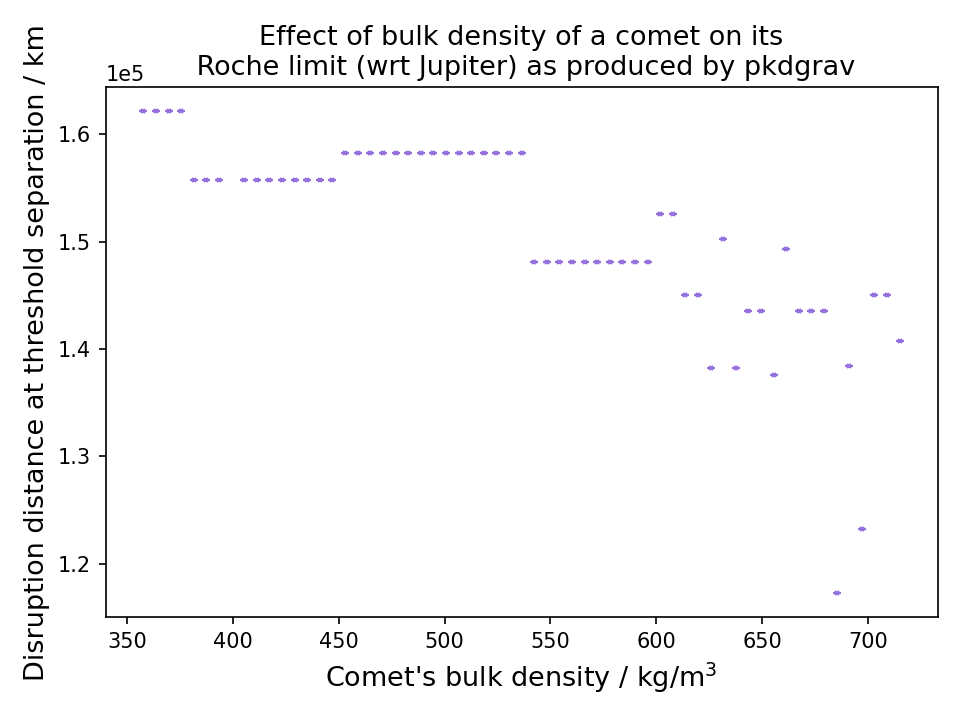
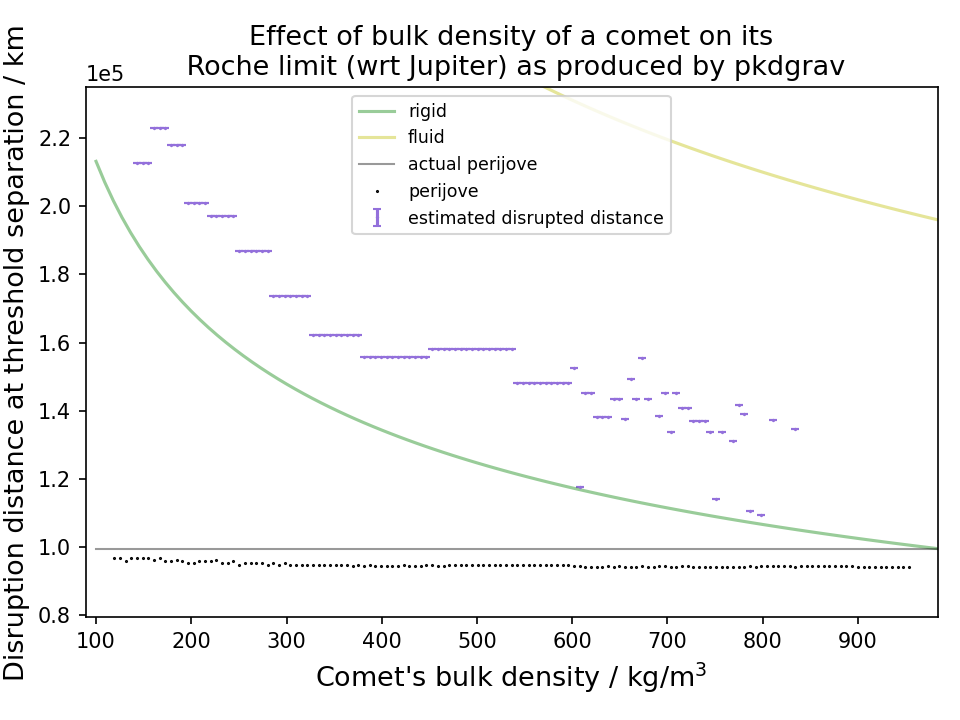
Run specific stuff

diff --git a/scripts/initiate.py b/scripts/initiate.py
@@ -53,8 +53,8 @@ def change_density(start: int, end: int, step: int):
 
 
 if __name__ == "__main__":
-    START_DENSITY = 300
-    END_DENSITY = 600
+    START_DENSITY = 100
+    END_DENSITY = 800
     STEP = 5
     make_directories(START_DENSITY, END_DENSITY, STEP)
     copy_files(START_DENSITY, END_DENSITY, STEP)
